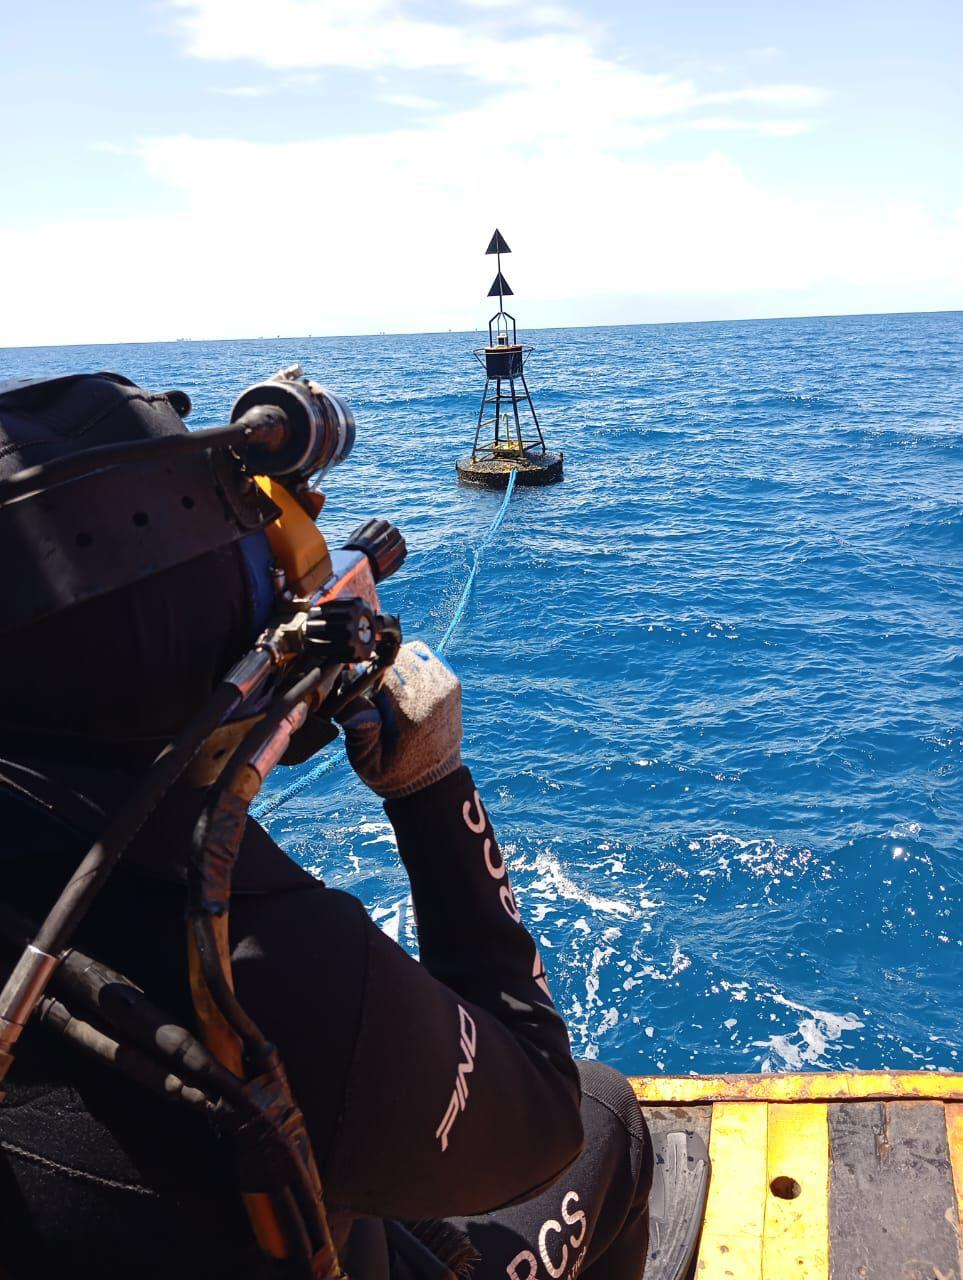
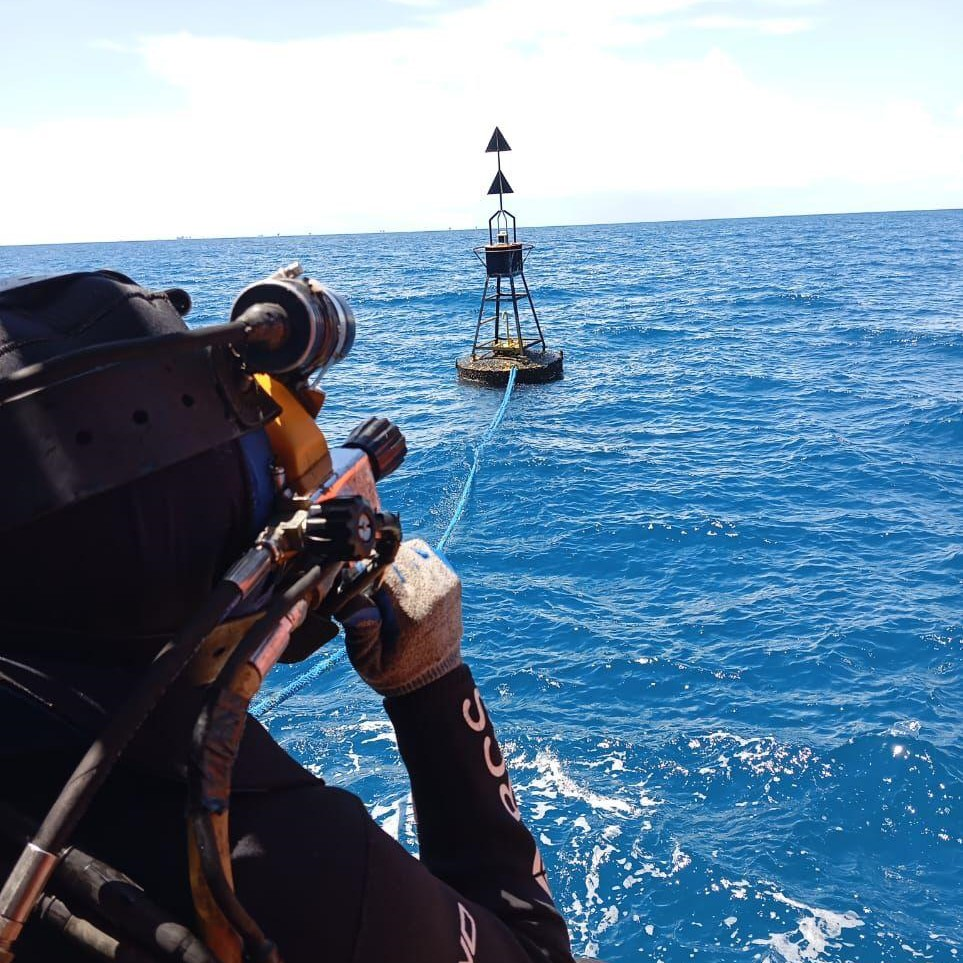
redimensionamento da foto visão -Matheus Costa

diff --git a/style.css b/style.css
@@ -585,6 +585,11 @@ section .clientes{
     padding: 50px;
 }
 
+.somos-curto{
+    display: flex;   
+    align-items: center;
+    padding: 50px;
+}
 .valores{
     display: flex;   
     
@@ -598,7 +603,21 @@ section .clientes{
     margin: 10px 30px;
     box-shadow: 0px 0px 5px 3px rgba(0, 0, 0, 0.3);
 }
+
+.somos-curto img{
+    height: 400px;
+    width: 550px;
+    text-align:justify;
+    border-radius: 5px 35px;
+    margin: 10px 30px;
+    box-shadow: 0px 0px 5px 3px rgba(0, 0, 0, 0.3);
+}
+
 .somos p{
+    font-family: 'Poppins', sans-serif;
+    font-size: 22px;    
+}
+.somos-curto p{
     font-family: 'Poppins', sans-serif;
     font-size: 22px;    
 }
